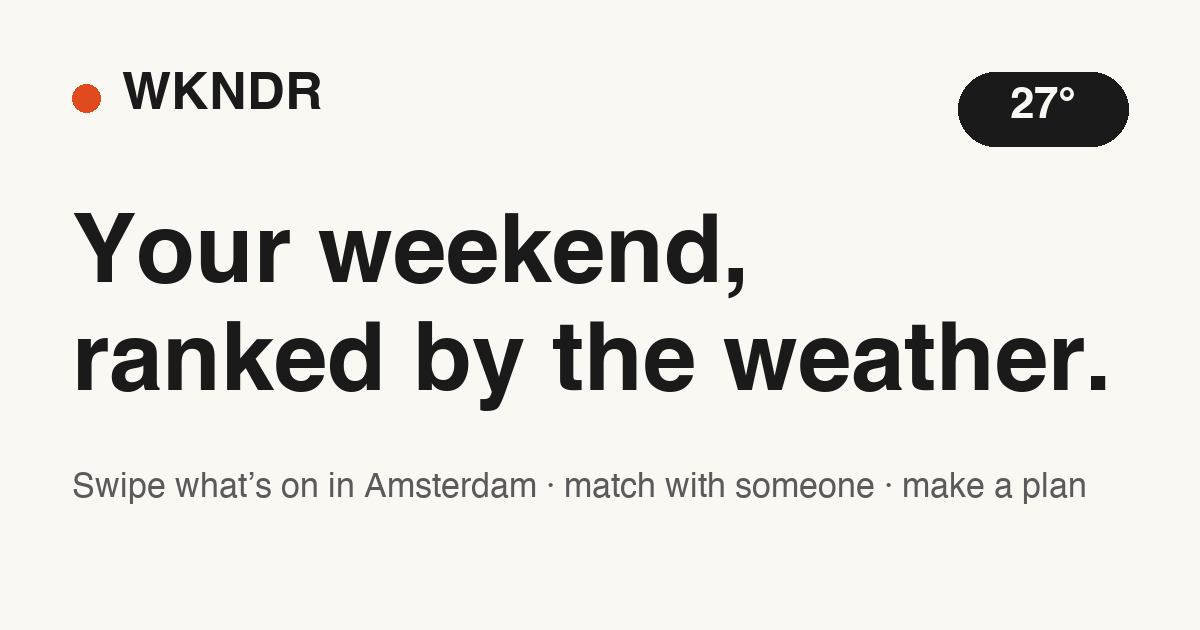
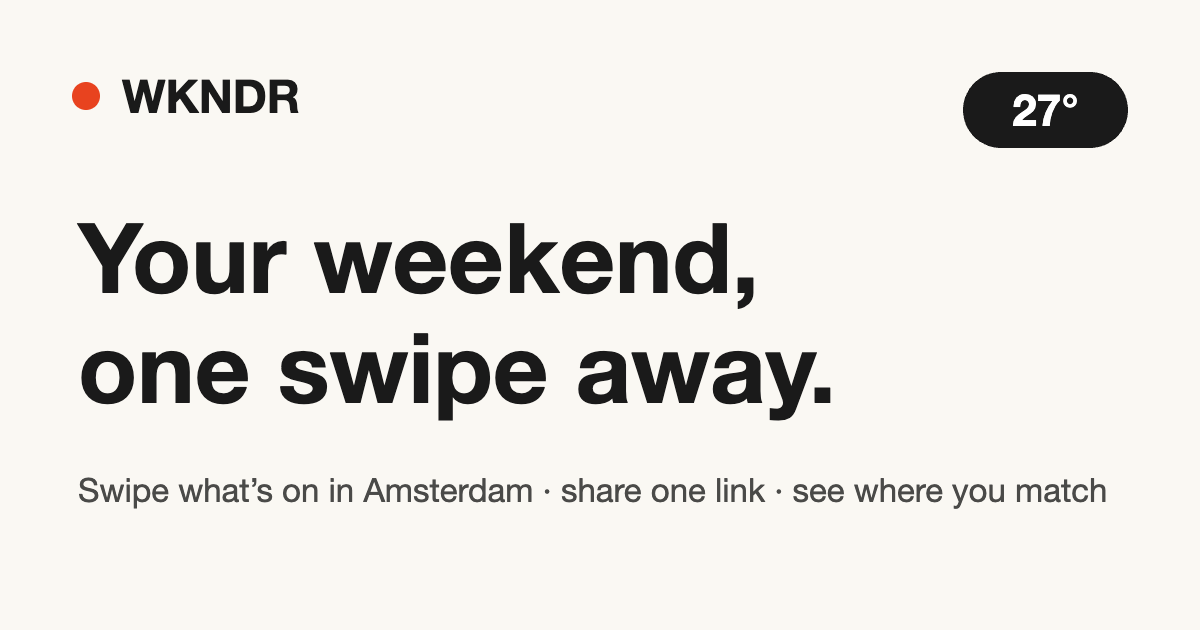
V.10.2 — og.png matches the new headline (both surfaces) + solid detail chips
- redrawn 1200×630: 'Your weekend, one swipe away.' · same paper/dot/pill design
- detail tags no longer fade over bright photos: paper cat chip, solid outdoor/kids/always

diff --git a/app/src/components/Card.css b/app/src/components/Card.css
@@ -169,7 +169,7 @@
 .chip-fresh--new     { background: var(--accent); }
 .chip-fresh--ending  { background: #d2402e; }
 .chip-fresh--weekend { background: rgba(26, 26, 26, 0.86); }
-.chip-fresh--always  { background: rgba(26, 26, 26, 0.55); }
+.chip-fresh--always  { background: rgba(26, 26, 26, 0.8); }   /* was 0.55 — washed out over bright photos */
 
 .chip-status { color: #fff; font-weight: 700; }
 .chip-status--final-week  { background: #d2402e; }
@@ -178,20 +178,22 @@
 .chip-status--free        { background: #2faa6a; }
 .chip-closing { background: #d2402e; color: #fff; font-weight: 700; }
 
+/* solid chips — the old translucent glass (0.16–0.28) disappeared over bright header
+   photos, especially on mobile where the backdrop blur is disabled for perf */
 .chip-cat {
-  background: rgba(255, 255, 255, 0.16);
-  color: #fff;
-  border: 1px solid rgba(255, 255, 255, 0.32);
+  background: rgba(250, 248, 243, 0.92);
+  color: var(--ink);
+  border: 1px solid rgba(0, 0, 0, 0.08);
 }
 .chip-outdoor {
-  background: rgba(110, 200, 120, 0.22);
-  color: #eafff0;
-  border: 1px solid rgba(150, 230, 170, 0.5);
+  background: rgba(32, 118, 62, 0.9);
+  color: #f0fff5;
+  border: 1px solid rgba(255, 255, 255, 0.25);
 }
 .chip-kid {
-  background: rgba(120, 150, 210, 0.28);
-  color: #eef3ff;
-  border: 1px solid rgba(150, 175, 230, 0.55);
+  background: rgba(70, 100, 170, 0.9);
+  color: #f0f4ff;
+  border: 1px solid rgba(255, 255, 255, 0.25);
 }
 /* "Trending" — surfaced from buzz (how many independent sources flagged the pick) */
 .chip-buzz {

diff --git a/app/src/version.ts b/app/src/version.ts
@@ -10,4 +10,4 @@
 // History: V.1 = the frozen landmark (served at /wkndr/v1/). V.2 = the command-bar / fan line
 // (the old 2.0.0-devN counter). V.3 = this line — Coverflow on mobile, the dimmed wide fan on
 // desktop, the live content pipeline, and the refined card detail.
-export const APP_VERSION = 'V.10.1'
+export const APP_VERSION = 'V.10.2'

diff --git a/CHANGELOG.md b/CHANGELOG.md
@@ -14,6 +14,13 @@ shown in the app's "What's feeding this" sheet matches the latest tag here.
 > `v5.0`, `v6.2`). The per-ship granular history is the **git log** — entries below group it by major
 > version. (Entries 0.1.0–0.7.0 are the earlier semver phase, kept for the record.)
 
+## [V.10.2] — 2026-07-16 — OG refresh + solid detail chips
+- **og.png** (both surfaces) redrawn for the new proposition: "Your weekend, one swipe away." +
+  "Swipe what's on in Amsterdam · share one link · see where you match" — same paper/pill design.
+- **Detail-sheet chips solidified**: the translucent glass chips (cat 0.16 / outdoor 0.22 / kid
+  0.28 / always 0.55) washed out over bright header photos (mobile drops their backdrop blur for
+  perf). Now: paper chip w/ ink text (category), deep green (outdoor), blue (kids), 0.8 dark (always).
+
 ## [V.10.1] — 2026-07-16 — "The finish pass" (dates · keyboard · trust)
 _The dependable-product optimisation sweep — correctness + access first, discovery + trust second:_
 - **whenLooksBroken** (`lib/when.ts`): malformed date ranges are DROPPED, never displayed — a